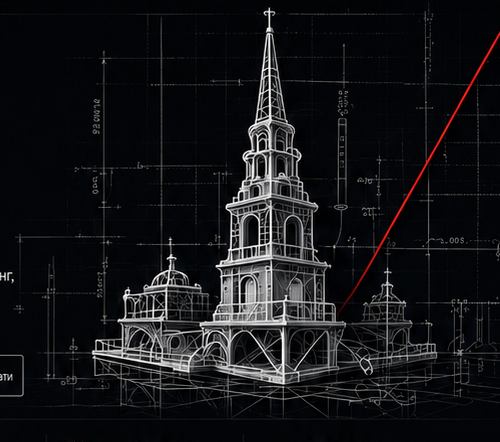
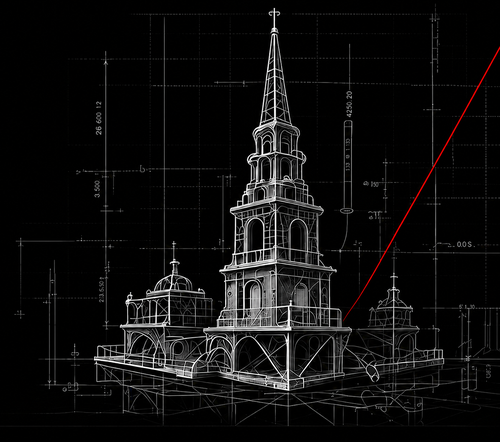
replace hero artwork with cleaned version
- updated hero-spire-clean images with cleaned artifact-free artwork
- preserved existing image dimensions and filenames
- no HTML, CSS, layout or content changes

diff --git a/style.css b/style.css
@@ -1923,3 +1923,10 @@ img { display: block; max-width: 100%; }
     pointer-events: none;
   }
 }
+
+
+/* v34: adjust only the intro text width in "Наш подход" to match "Наши решения" */
+.home-approach__copy > p {
+  max-width: 560px !important;
+  line-height: 1.45;
+}

diff --git a/README.md b/README.md
@@ -203,3 +203,19 @@ QR-коды пересобраны под домен:
 
 Контакты:
 - телефон для связи заменён на `8 (800) 550 55 13`.
+
+
+## v34
+
+Главная страница:
+- в секции «Наш подход» уменьшена ширина вводного текста под заголовком до логики блока «Наши решения».
+- остальные элементы секции не менялись.
+
+
+## v35
+
+Главная графика:
+- аккуратно заменена hero-картинка на очищенную версию без артефактов;
+- обновлены только файлы `hero-spire-clean.png`, `hero-spire-clean-approved.png`, `hero-spire-clean-blend.png`;
+- размеры файлов изображений сохранены в текущем формате 500×442 px;
+- CSS, HTML, структура, блоки и утверждённые элементы сайта не менялись.